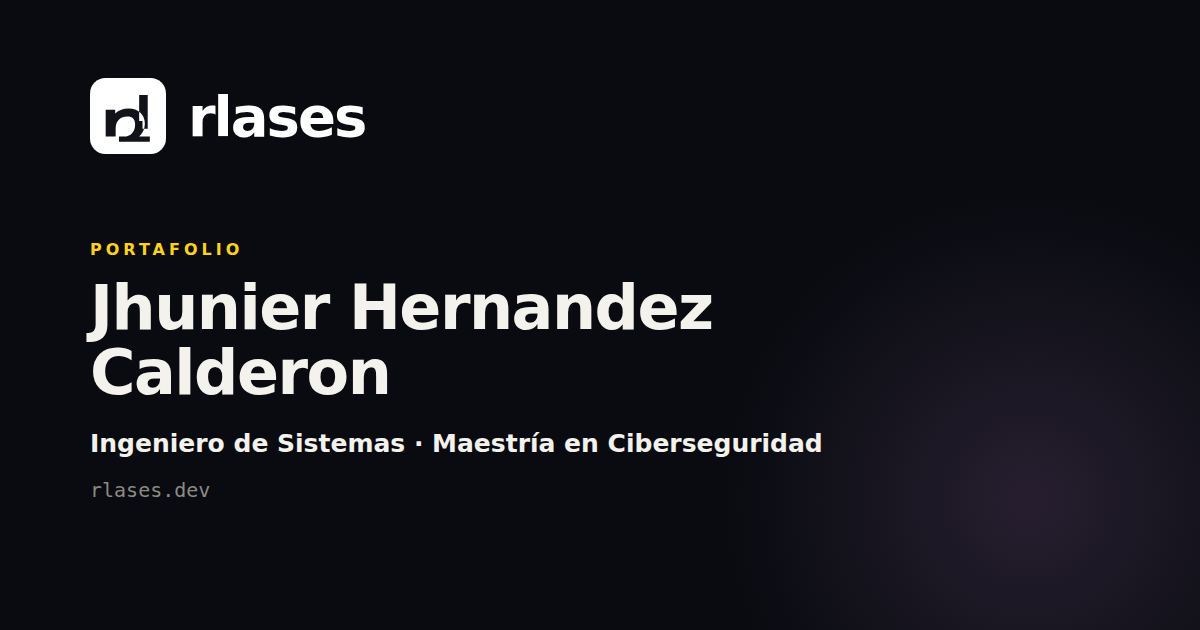
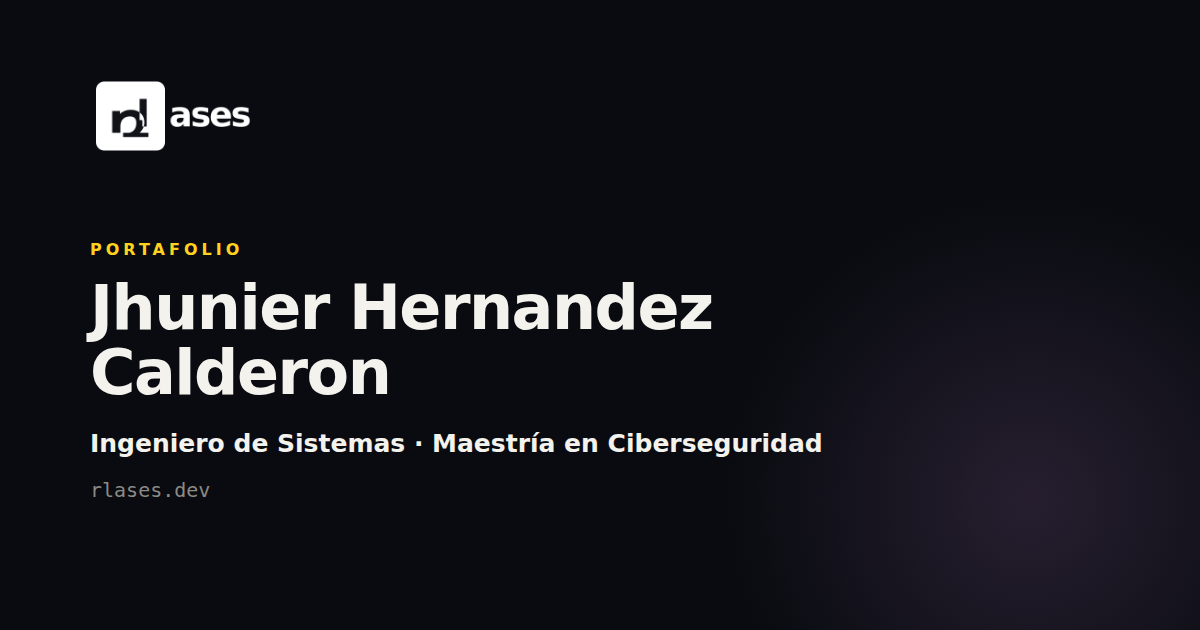
Use more of the rlases brand kit variants, matched to context
Previously only the boxed icon (06/07) was in use. Bring in the rest
of the kit where each variant's intended context actually applies:

- CV PDF header: 06 (black-on-white icon) — the only light-background
  surface on the site, matching the kit's documented light-bg use case.
- OG image: swapped the hand-recreated lockup for the actual
  05-principal-sin-descriptor asset, unmodified, for pixel-perfect
  brand fidelity instead of an approximation.
- README: adaptive light/dark logo at the top using the 03/04
  monochrome-transparent pair via GitHub's <picture>+
  prefers-color-scheme trick, so it reads correctly regardless of the
  viewer's GitHub theme.
- Footer: small muted BrandMark above the copyright line, using it as
  the watermark the kit's README describes for 03/04.
- Achievements panel: 08 (pastel secondary icon) next to "Logros" —
  the kit's own README calls this variant out for creative/secondary
  content, which fits the gamified achievements panel.

Changed region(s): [[0.0617, 0.1206, 0.3083, 0.2714]]

diff --git a/src/pdf/ResumeDocument.jsx b/src/pdf/ResumeDocument.jsx
@@ -1,4 +1,4 @@
-import { Document, Page, Text, View, StyleSheet, Link } from '@react-pdf/renderer'
+import { Document, Page, Text, View, StyleSheet, Link, Image } from '@react-pdf/renderer'
 import { profile, experience, education, certifications } from '../data/profile.js'
 
 const ACCENT = '#a8790a'
@@ -11,6 +11,15 @@ const styles = StyleSheet.create({
     fontSize: 10,
     fontFamily: 'Helvetica',
     color: '#111111',
+  },
+  headerRow: {
+    flexDirection: 'row',
+    justifyContent: 'space-between',
+    alignItems: 'flex-start',
+  },
+  logo: {
+    width: 30,
+    height: 30,
   },
   name: {
     fontSize: 22,
@@ -114,8 +123,13 @@ export default function ResumeDocument() {
   return (
     <Document title={`CV - ${profile.name}`} author={profile.name}>
       <Page size="A4" style={styles.page}>
-        <Text style={styles.name}>{profile.name}</Text>
-        <Text style={styles.role}>{profile.role}</Text>
+        <View style={styles.headerRow}>
+          <View>
+            <Text style={styles.name}>{profile.name}</Text>
+            <Text style={styles.role}>{profile.role}</Text>
+          </View>
+          <Image src="/rlases-brand-kit/png/06-icono-negro-sobre-blanco@2x.png" style={styles.logo} />
+        </View>
         <View style={styles.contactRow}>
           <Text>{profile.location}</Text>
           <Text>{profile.links.email}</Text>

diff --git a/src/components/Achievements.jsx b/src/components/Achievements.jsx
@@ -41,7 +41,15 @@ export default function Achievements() {
             aria-label="Logros desbloqueados"
           >
             <div className="achievements-header">
-              <h3>Logros</h3>
+              <div className="achievements-title-group">
+                <img
+                  className="achievements-mark"
+                  src="/rlases-brand-kit/png/08-icono-pastel-secundario@2x.png"
+                  alt=""
+                  aria-hidden="true"
+                />
+                <h3>Logros</h3>
+              </div>
               <span className="achievements-count">
                 {unlocked.length}/{unlockableAchievements.length}
               </span>

diff --git a/src/App.css b/src/App.css
@@ -1786,6 +1786,13 @@ main {
   border-top: 1px solid var(--border);
 }
 
+.footer-mark {
+  width: 18px;
+  height: 18px;
+  margin-bottom: 12px;
+  opacity: 0.5;
+}
+
 @media (max-width: 640px) {
   .hero {
     padding: 12vh 0 8vh;
@@ -2275,6 +2282,18 @@ main {
   align-items: baseline;
   justify-content: space-between;
   margin-bottom: 16px;
+}
+
+.achievements-title-group {
+  display: flex;
+  align-items: center;
+  gap: 10px;
+}
+
+.achievements-mark {
+  width: 22px;
+  height: 22px;
+  border-radius: 6px;
 }
 
 .achievements-header h3 {

diff --git a/src/components/Footer.jsx b/src/components/Footer.jsx
@@ -1,10 +1,12 @@
 import { profile } from '../data/profile.js'
+import BrandMark from './BrandMark.jsx'
 
 export default function Footer() {
   const year = new Date().getFullYear()
 
   return (
     <footer className="site-footer">
+      <BrandMark className="footer-mark" aria-hidden="true" />
       <p>
         © {year} {profile.handle} — hecho con React + Vite, publicado con GitHub Pages.
       </p>

diff --git a/README.md b/README.md
@@ -1,3 +1,11 @@
+<p align="center">
+  <picture>
+    <source media="(prefers-color-scheme: dark)" srcset="public/rlases-brand-kit/png/04-monocromatico-blanco-transparente@2x.png">
+    <source media="(prefers-color-scheme: light)" srcset="public/rlases-brand-kit/png/03-monocromatico-negro-transparente@2x.png">
+    <img alt="rlases" src="public/rlases-brand-kit/png/03-monocromatico-negro-transparente@2x.png" width="320">
+  </picture>
+</p>
+
 # rlases — Portafolio
 
 Portafolio personal de Jhunier Hernandez Calderon ([@riassd](https://github.com/riassd)),
